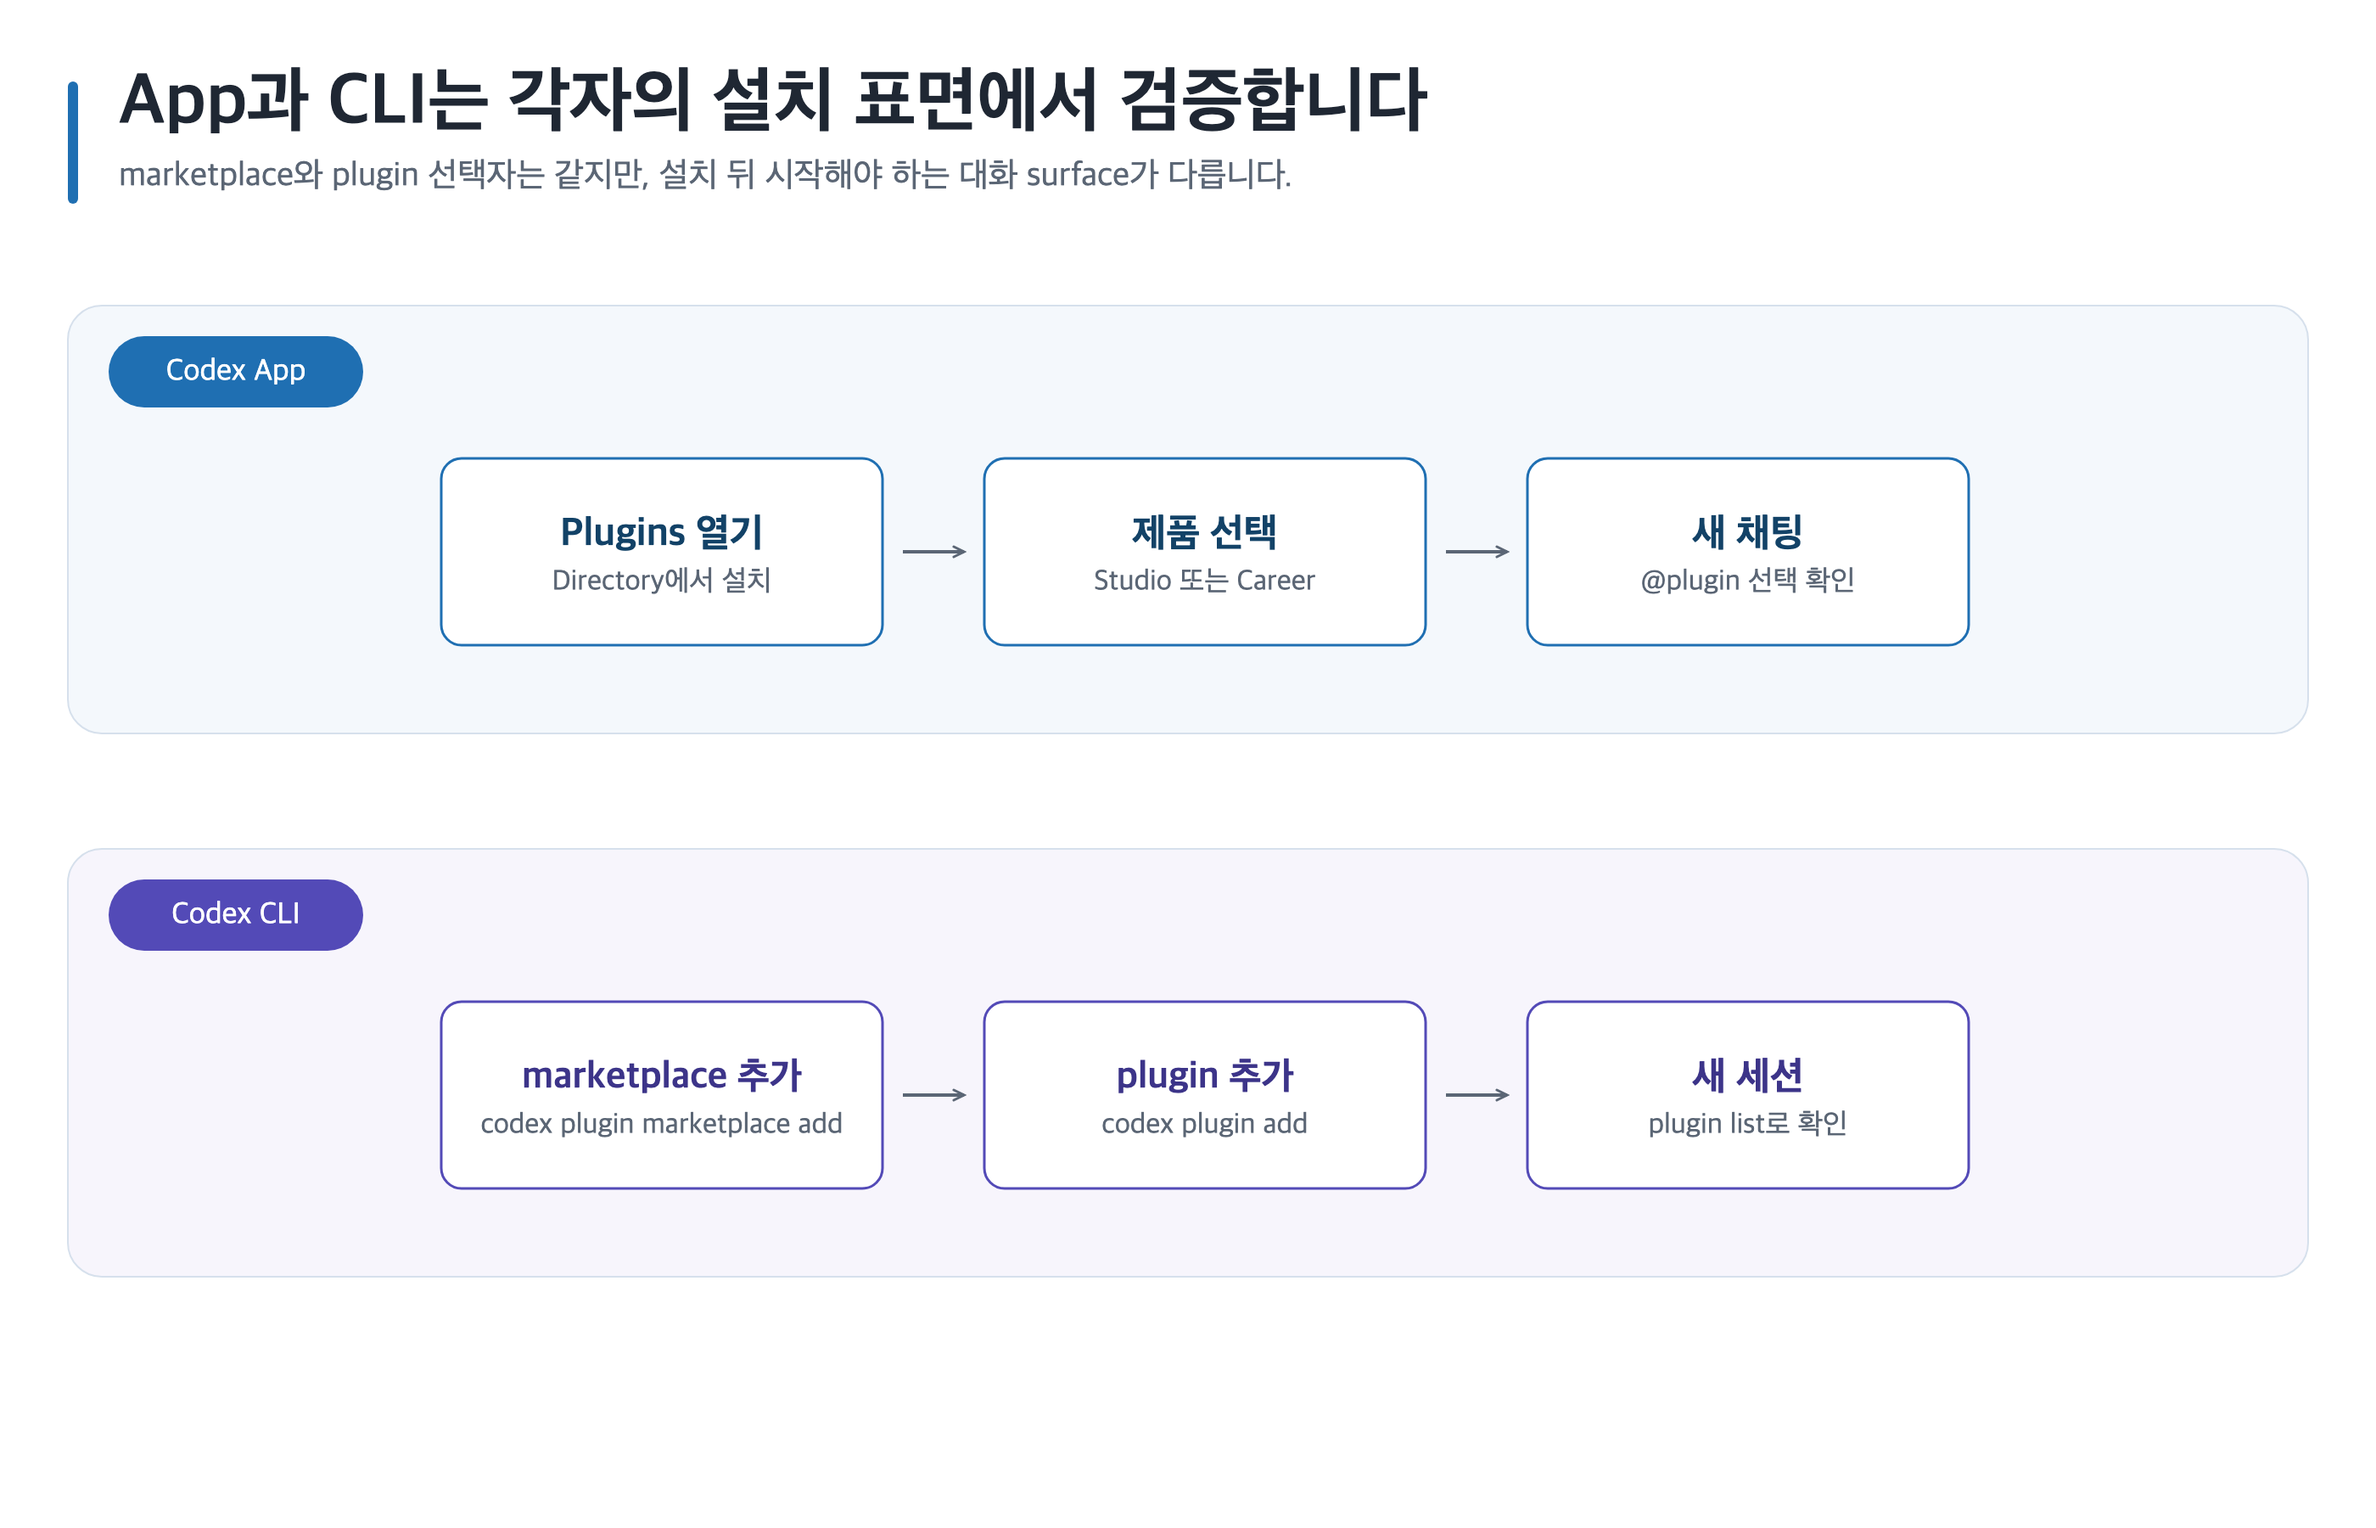
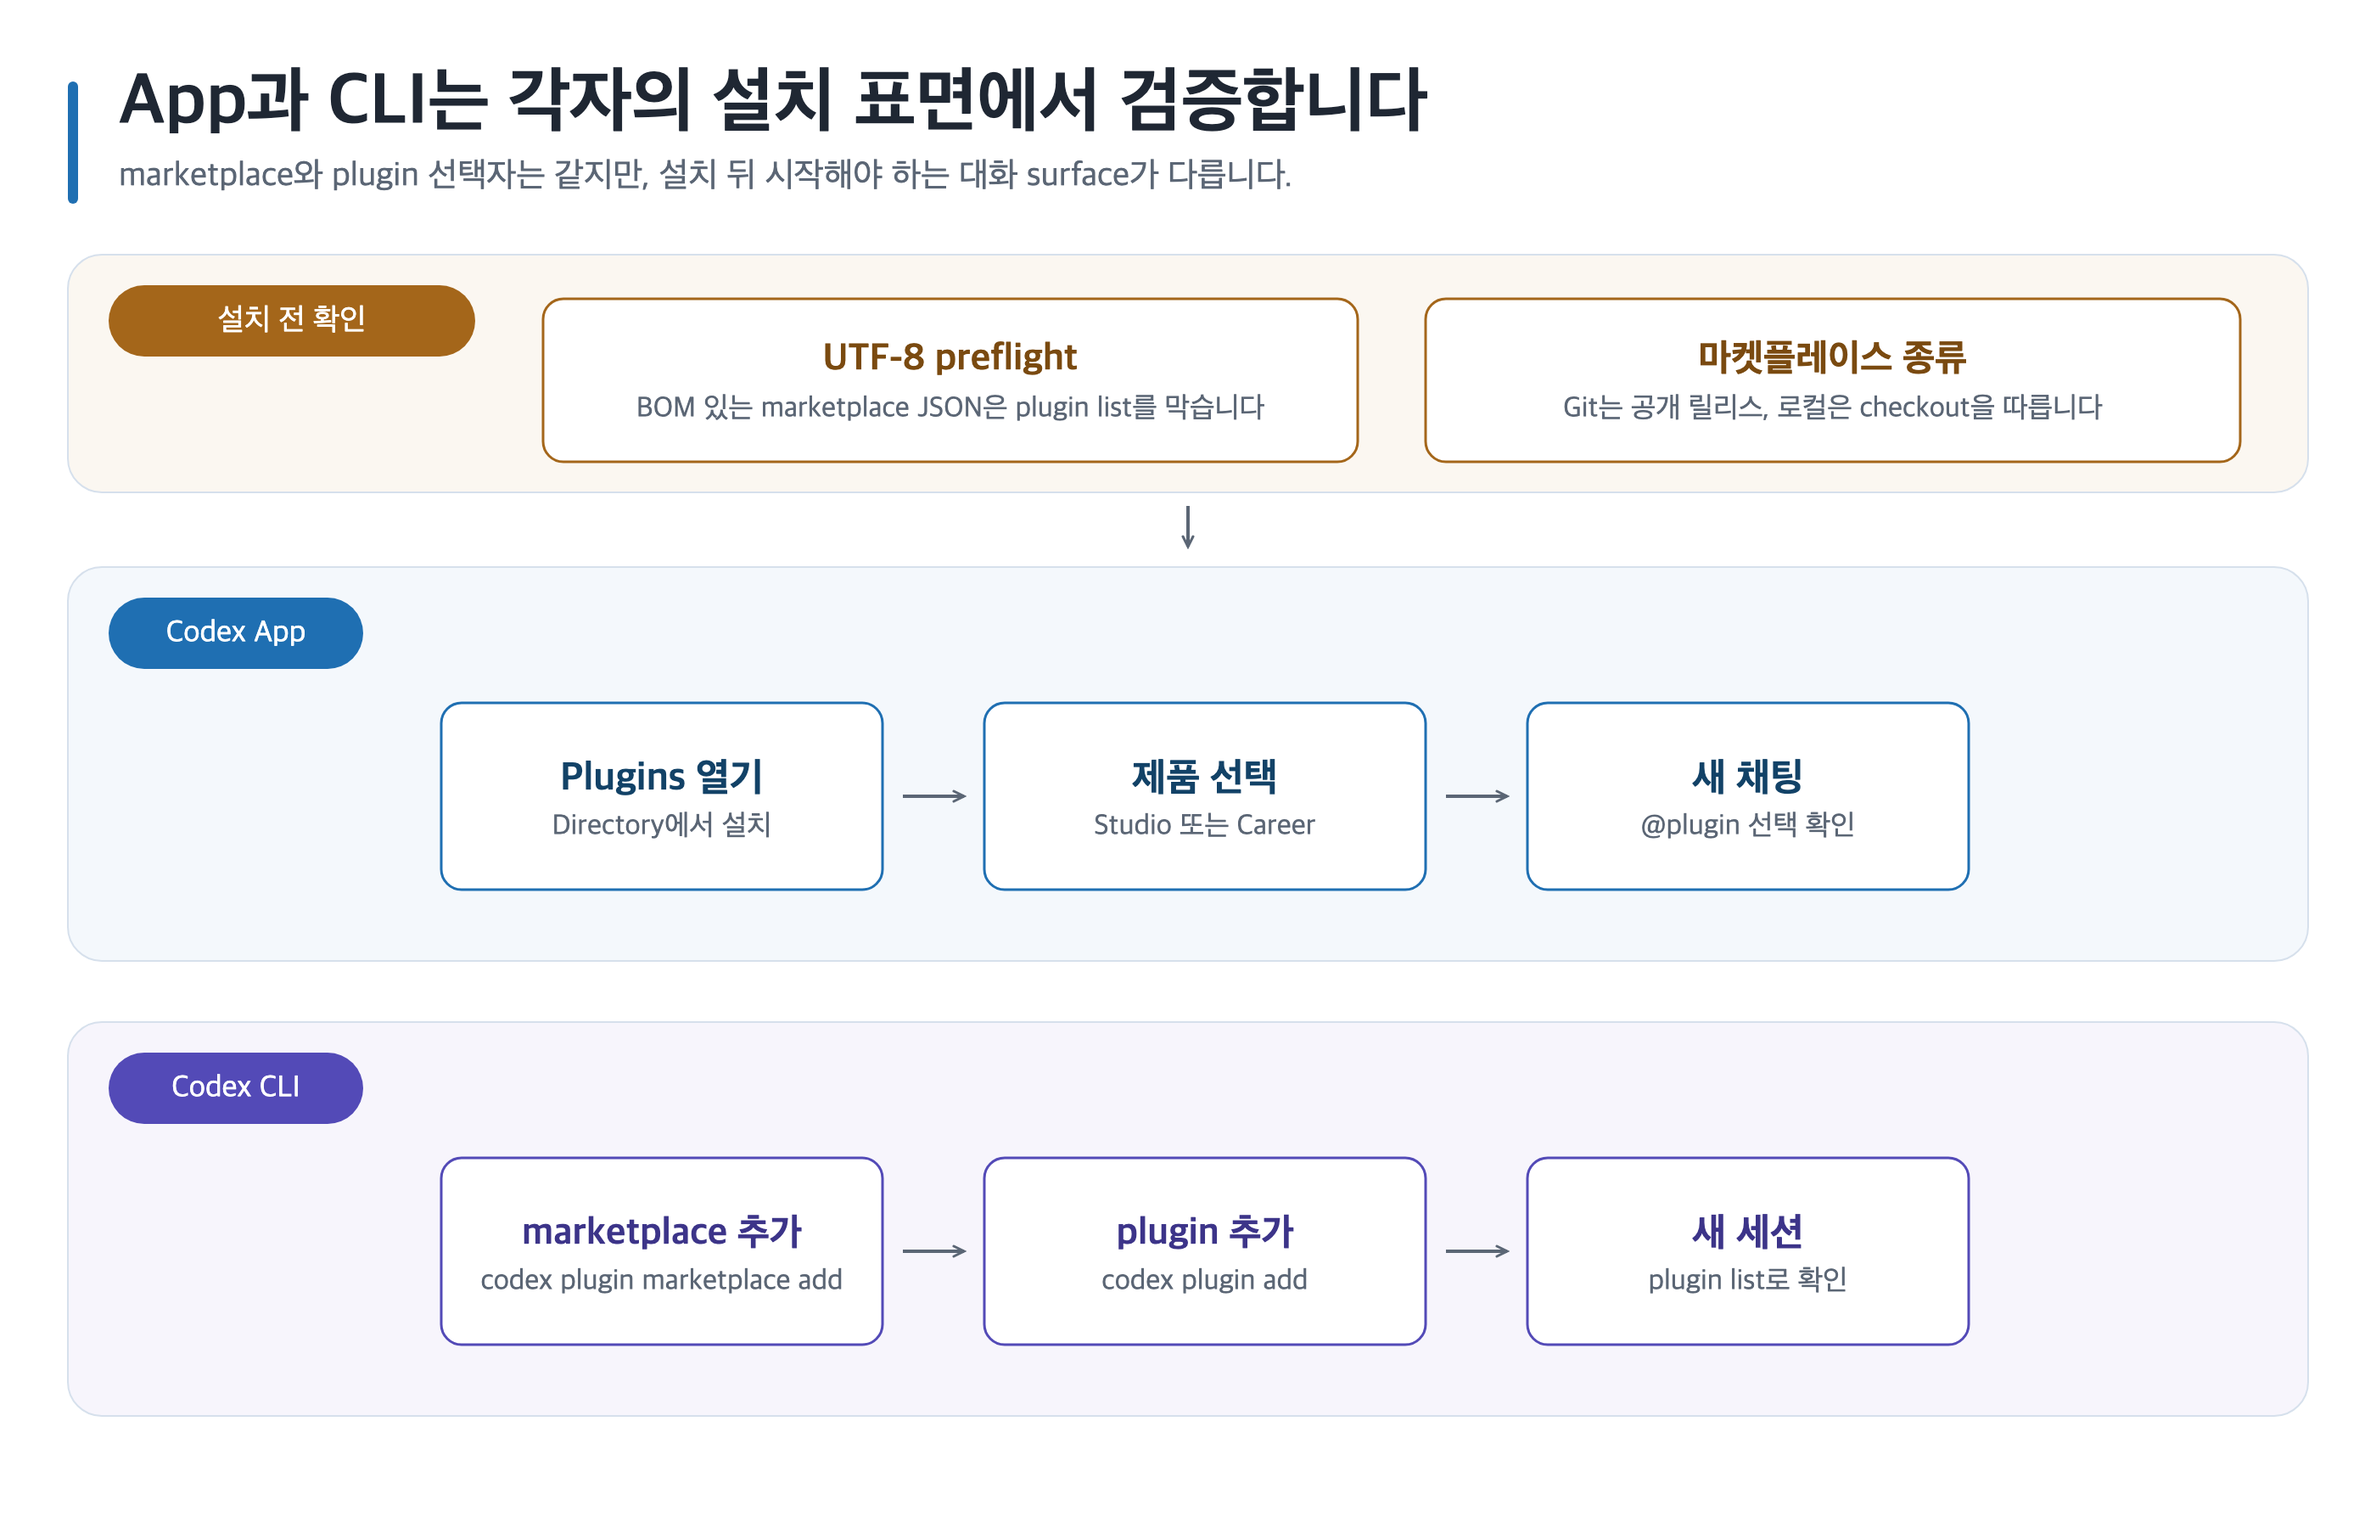
docs: draw the entry routing, the one-way handoff, and the approval-gated update path
The two entry-skill guides borrowed the orchestrator's diagram, and the handoff
and update flows the spec asks for had no picture at all. Three shared diagrams
now carry them, and the install diagram gained the UTF-8 preflight and the
marketplace-kind band ahead of both lanes.

The diagram count was pinned in eight places, not the six the plan found: the
two extra were the global totals in user-guide-studio-diagrams and in the
use-case manifest scope inventory. All eight move together, which is why the
three diagrams land in one commit.

diff --git a/guides/assets/VISUAL-QA.md b/guides/assets/VISUAL-QA.md
@@ -16,15 +16,18 @@
 | 도식 | 전체 보기 검사 | 원본 해상도 검사 | 연결선·읽기 순서 | 출처 충실도 |
 | --- | --- | --- | --- | --- |
 | `plugin-selection-flow` | 3개 카드와 결론 strip이 즉시 좌→우로 읽힘 | Korean/Latin glyph 정상, 넘침·containment 실패 없음 | 36px 이상 shaft와 open-V head, card border에서 12px gap; 목적→제품→marketplace | Studio/Career installation의 제품 선택과 `game-design-suite`를 반영 |
-| `app-cli-install-flow` | App/CLI 두 lane이 명확히 분리됨 | pill·카드·명령 label의 clipping/overflow 없음 | 각 lane이 좌→우; 36px shaft와 head, 12px gap | 두 installation guide의 App 새 채팅·CLI 새 세션을 반영 |
+| `app-cli-install-flow` | 상단 `설치 전 확인` band 뒤에 App/CLI 두 lane이 이어지고 셋이 한 화면에 들어옴 | pill·카드·명령 label과 두 preflight 카드 본문의 clipping/overflow 없음 | band에서 App lane으로 하향 arrow(`y=298`→`y=322`), 각 lane은 좌→우; 36px shaft와 head, 12px gap | 두 installation guide의 UTF-8 BOM 진단, Git·로컬 marketplace 구분, App 새 채팅·CLI 새 세션을 반영 |
 | `canonical-artifact-lifecycle` | 작성→검토→사람 결정과 하단 결과가 한 화면에 보임 | gate pill, 상태 문구, 하단 strip containment 정상 | 좌→우 승인 흐름 뒤 하향 arrow; shaft/head 접합 정상, endpoint `y=664`에서 target `y=676`까지 12px gap | Studio/Career workflow의 Canonical Artifact·전문 검토·사람 결정을 반영 |
 | `image-generation-mode-routing` | `생성 요청?` decision에서 no/default와 yes 분기가 즉시 구분됨 | 모든 mode glyph 정상, 카드·merge/footer strip overflow 없음 | yes는 bus center `x=880, y=375`로 연결되고 `select`/`required`/`all` center `x=640/880/1120`에 33px branch와 12px target gap으로 동등 분기; 네 결과가 하단 공통 경계로 merge됨 | 두 image-assets guide의 `prompt-only`, `select`, `required`, `all`, selection receipt 및 manifest 경계를 반영 |
 | `image-provider-cost-routing` | 한글 여부와 무료 결과 검토에서 무료·유료 경로가 분명히 갈림 | 한글·영문 model/quality 글리프, 카드와 승인 pill의 clipping·overflow 없음 | prompt-only 하향 분기와 image_gen→결과 확인 경로를 분리하고, 한글 필요·반복 실패만 유료 제안과 사람 승인으로 연결 | 두 image-assets guide의 image_gen 우선, gpt-image-2 사용 제안, low 기본·medium 선택·high 예외와 승인 전 유료 호출 0회 경계를 반영 |
 | `image-asset-lifecycle` | draft→review→approved→후속 review가 명확함 | reviewer pill·status·하단 strip 모두 containment 정상 | 좌→우 및 하향 단계; shaft/head 정상, endpoint `y=648`에서 target `y=660`까지 12px gap | 두 image-assets guide의 `concept-draft`, `document-approved`, `production-candidate` 및 named human review를 반영 |
 | `document-export-flow` | preflight, 공통 상태 rail, MD/PDF/DOCX/PPTX 형식별 검증이 즉시 구분됨 | status pill·형식 label 모두 clipping/overflow 없음 | 공통 상태 arrow tip `y=488`→panel top `y=500`는 12px gap; panel bus `y=540`에서 네 card top `y=590`까지 endpoint `y=578`의 38px branch와 12px target gap으로 연속 분배 | 두 exports guide의 모든 공통 상태 `not-requested`/`blocked`/`pending`/`unavailable`과 MD canonical text, PDF page QA, DOCX OOXML QA, PPTX story/slide QA를 반영 |
 | `project-memory-reuse-flow` | 설정→조회→재검증→현재 작업 참고→후보 검토의 주 경로와 비활성·제외 분기가 구분됨 | `.env`, 경로, Studio·Career 글리프와 모든 카드의 containment 정상 | 승인 기록만 주 경로로 보내고 비활성·오류와 부적합 기록은 하향 분기; 사람 결정 뒤 로컬 기록에서 다음 요청 조회로 되먹임 | 프로젝트 기억 가이드의 LLM Wiki 제한, 출처·범위 재검증, 사람 승인, `.game-design/memory/` 추가 전용 기록과 자동 전송 없음 경계를 반영 |
+| `suite-entry-routing-flow` | 요청 도착 → 대표 진입 스킬 → 남기는 것의 세 band가 위에서 아래로 즉시 읽힘 | `route-receipt.json`, `routeId`, ST-C01 글리프와 3열 카드 containment 정상 | band 사이 하향 arrow 2개(`y=322`, `y=562`)와 band 안 좌→우 arrow; 카드 경계에서 12px gap | 두 대표 진입 스킬 가이드의 요청 정규화, 소유 제품 판정, route 하나 선택, 라우팅 영수증과 단방향 인계 후보를 반영 |
+| `suite-handoff-ownership-flow` | owner 확정 → supplier evidence → 멈춤과 승인이 한 화면에서 구분됨 | `returnToSkill`, `requestedOutputs`, facts·inferences·recommendations·unknowns 라틴 글리프와 하단 2열 카드 containment 정상 | 상단 band는 좌→우, band 2에서 하단으로 두 갈래 하향 arrow(`x=400`, `x=1000`); 반환은 owner 쪽 한 방향만 그림 | `shared/suite-handoff/references/handoff.md`의 최종 owner 규칙, 요청·반환 봉투 키, 인계 1회 제한, 상대 부재 시 blocker와 사람 승인 경계를 반영 |
+| `suite-update-approval-flow` | 알림과 검사 → 사용자 승인 → 적용과 재개가 위에서 아래로 읽히고 승인 band가 가운데에서 분명히 끊음 | `upgrade-game-design-suite`, `codex plugin add`, `codex plugin list` 글리프와 승인 band 2열 카드 containment 정상 | 검사 band에서 승인 band로 하향 arrow(`y=368`), 승인 선택 카드에서만 적용 band로 하향 arrow(`x=520`, `y=560`); 나머지 선택지는 이어지는 화살표가 없음 | 업그레이드 스킬 계약의 검사 단계 무변경, 네 선택지, 승인 뒤 재설치·검증, 새 채팅·새 세션 재개를 반영 |
 
-초기 lint 경고 하나(`plugin-selection-flow`의 `공통 marketplace 설치` text overflow 추정)는 label을 `marketplace 설치`로 줄인 뒤 재-lint하여 경고 0건으로 해소했습니다. Fix round 1에서는 전체 SVG를 다시 lint/render하고 모든 PNG를 두 단계로 재검사했습니다. Fix round 2에서는 영향을 받은 두 PNG를 canonical Chrome으로 재렌더하고 high/original 두 단계에서 bus·branch·target gap과 canvas containment를 재확인했습니다. 2026-08-16에는 새 이미지 제공자·비용 경로와 프로젝트 기억 재사용 흐름을 원본 해상도로 확인했으며, 첫 렌더에서 붐비던 분기 레이블과 화살표 끝점을 정리한 뒤 오류·경고 0건으로 다시 렌더했습니다.
+초기 lint 경고 하나(`plugin-selection-flow`의 `공통 marketplace 설치` text overflow 추정)는 label을 `marketplace 설치`로 줄인 뒤 재-lint하여 경고 0건으로 해소했습니다. Fix round 1에서는 전체 SVG를 다시 lint/render하고 모든 PNG를 두 단계로 재검사했습니다. Fix round 2에서는 영향을 받은 두 PNG를 canonical Chrome으로 재렌더하고 high/original 두 단계에서 bus·branch·target gap과 canvas containment를 재확인했습니다. 2026-08-16에는 새 이미지 제공자·비용 경로와 프로젝트 기억 재사용 흐름을 원본 해상도로 확인했으며, 첫 렌더에서 붐비던 분기 레이블과 화살표 끝점을 정리한 뒤 오류·경고 0건으로 다시 렌더했습니다. 2026-08-19에는 대표 진입 라우팅, 단방향 인계, 업데이트 승인 도식 셋을 새로 그리고 설치 도식에 UTF-8 preflight와 마켓플레이스 종류 band를 더했습니다. 네 SVG를 wrapper로 함께 lint해 `check-svg: 0 error(s), 0 warning(s) across 4 file(s)`를 확인했고, 네 PNG 모두 `2800×1800`과 단일 IEND 종료를 확인했습니다. 각 PNG를 전체 보기와 원본 해상도에서 열어 tofu, 텍스트 넘침, 잘린 glyph, panel containment 실패가 없음을 확인했으며 읽기 순서는 `aria-label` group 순서와 일치했습니다.
 
 ## Studio recipe 도식 검사 — 2026-08-06
 

diff --git a/guides/use-cases/output-catalog.md b/guides/use-cases/output-catalog.md
@@ -48,6 +48,8 @@ content.md
 
 ## Studio → Career handoff
 
+[![최종 owner와 supplier evidence와 단방향 반환을 나눈 인계 흐름](../assets/shared/suite-handoff-ownership-flow.png)](../assets/shared/suite-handoff-ownership-flow.svg)
+
 Studio Canonical Artifact와 Career Canonical Artifact는 분리합니다. Studio에서 Career로는 공개 가능한 **문제**, **결정**, **대안**, **검증 evidence**만 요약해 별도 Career portfolio project brief의 입력으로 전달합니다. Studio 원본을 포트폴리오 원본으로 복제하거나 두 Artifact를 하나의 폴더로 합치지 않습니다.
 
 다음은 handoff와 공개 결과에서 제외합니다.

diff --git a/guides/game-design-career/installation.md b/guides/game-design-career/installation.md
@@ -51,6 +51,8 @@ codex plugin list
 
 ## 업데이트
 
+[![업데이트 알림에서 승인과 재설치와 검증을 거쳐 새 세션에서 재개하는 흐름](../assets/shared/suite-update-approval-flow.png)](../assets/shared/suite-update-approval-flow.svg)
+
 먼저 `$upgrade-game-design-suite`를 부르는 것을 권합니다. 손으로 하는 절차는 그 아래에 그대로 둡니다.
 
 ### `$upgrade-game-design-suite` 스킬로 처리하기

diff --git a/guides/game-design-studio/installation.md b/guides/game-design-studio/installation.md
@@ -51,6 +51,8 @@ codex plugin list
 
 ## 업데이트
 
+[![업데이트 알림에서 승인과 재설치와 검증을 거쳐 새 세션에서 재개하는 흐름](../assets/shared/suite-update-approval-flow.png)](../assets/shared/suite-update-approval-flow.svg)
+
 먼저 `$upgrade-game-design-suite`를 부르는 것을 권합니다. 손으로 하는 절차는 그 아래에 그대로 둡니다.
 
 ### `$upgrade-game-design-suite` 스킬로 처리하기
